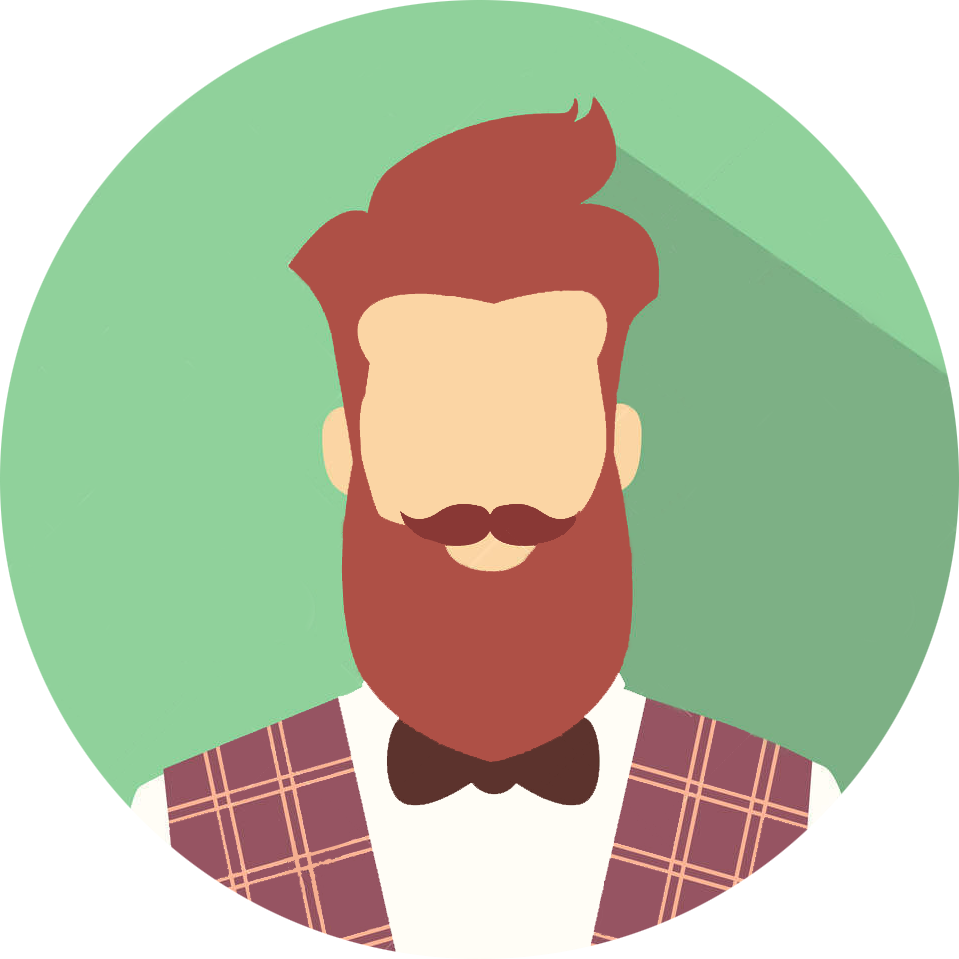
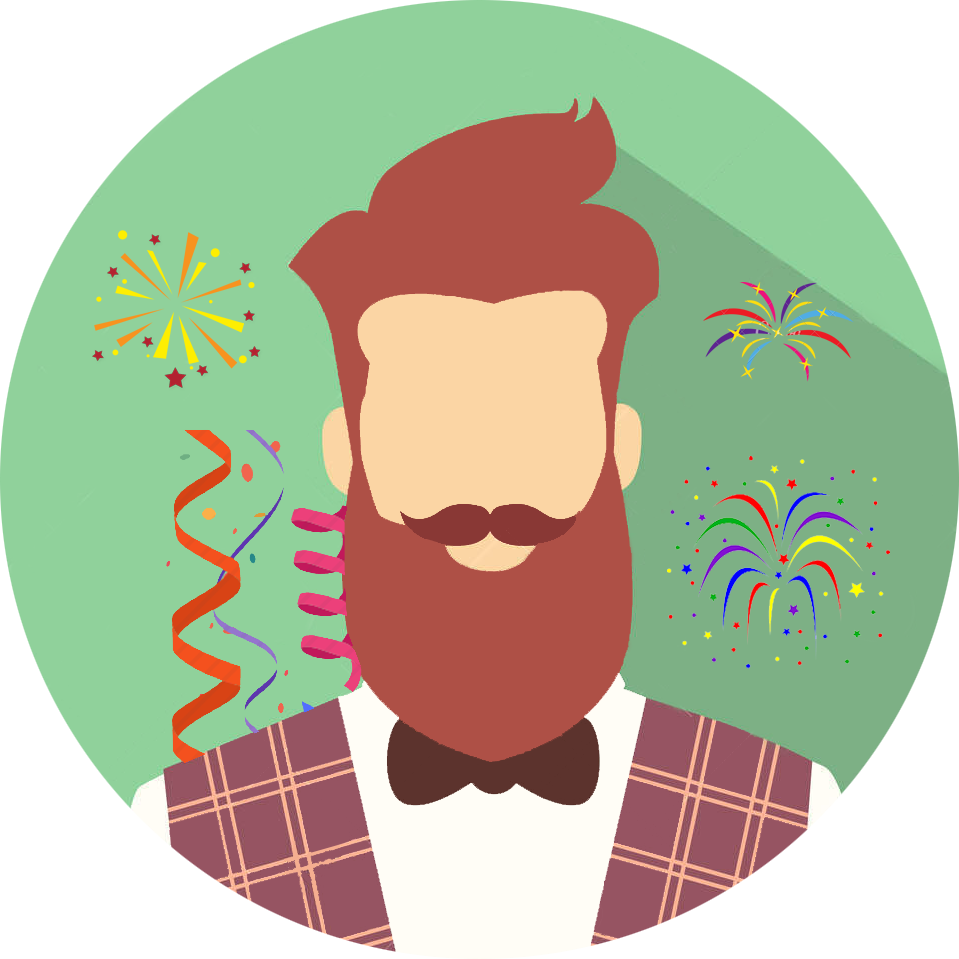
Government.php and app.php code refactoring + final version of Mass Media pattern layout

diff --git a/assets/js/data-modal.js b/assets/js/data-modal.js
@@ -63,28 +63,31 @@ function callGovernment(position){
 	var personalData = {};
 
 	switch(position){
-		case 'chiefDoctor':
+		case 'Minister Of Health':
 			personalData = {
-				'position' : 'Chief Doctor',
-				'firstName' : 'Gilbert',
+				'position' : 'Minister of Health',
+				'firstName': 'Gilbert',
 				'lastName' : 'Myers',
-				'hireDate' : '12.02.2003'
+				'hireDate' : '12.02.2003',
+				'image'    : 'ministerOfHealth.png'
 			};
 			break;
-		case 'cityJudge':
+		case 'Chairman Of The City Parliament':
 			personalData = {
-				'position' : 'City Judge',
-				'firstName' : 'Margaret',
+				'position' : 'Chairman of the City Parliament',
+				'firstName': 'Margaret',
 				'lastName' : 'Thompson',
-				'hireDate' : '01.07.2008'
+				'hireDate' : '01.07.2008',
+				'image'    : 'chairmanOfTheCityParliament.png'
 			};
 			break;
-		case 'policeCaptain':
+		case 'Minister Of Defense':
 			personalData = {
-				'position' : 'Police Captain',
-				'firstName' : 'Patrick',
+				'position' : 'Minister of Defense',
+				'firstName': 'Patrick',
 				'lastName' : 'Cooper',
-				'hireDate' : '03.10.2006'
+				'hireDate' : '03.10.2006',
+				'image'    : 'ministerOfDefense.png'
 			};
 			break;
 	}
@@ -205,6 +208,10 @@ function loadMassMediaHtml(sampleData){
 	var siteData = massMediaData.site;
 
 	$(".data-content").load('layouts/massMedia/massMedia.html', function(){
+		$(this).find("#date").text(massMediaData.date);
+		$(this).find("#party-name").text("#"+massMediaData.name);
+		$(this).find("#pc-24-time").text("Posted at " + tvData.time);
+		$(this).find("#pcb-time").text("Posted at "+siteData.time);
 		$(this).find("#pc-24-image").attr("src", "assets/img/massMedia/" + tvData.image);
 		$(this).find("#pc-24 span").text(tvData.text);
 		$(this).find("#pcb-image").attr("src", "assets/img/massMedia/" + siteData.image);

diff --git a/layouts/government/secretary.html b/layouts/government/secretary.html
@@ -2,13 +2,13 @@
  <section class = "single-block" id="government-meeting">
  	<img src="assets/img/government/secretary.png" alt="Secretry">
  	<article class = "double-conversation" id="conversation">
- 		<p><strong>Secretary:</strong> <span>The government is quite busy rigth now, but several ministers are ready to give you time. They are the chief doctor, the police captain and the city judge. Who would you like to meet with?</span></p>
+ 		<p><strong>Secretary:</strong> <span>The government is quite busy rigth now, but several ministers are ready to give you time. They are the minister of health, the minister of defense and the chairman of the city parliament. Who would you like to meet with?</span></p>
  		<p>
  			<strong>You: </strong> 
  			<span>
- 				<a href = "javascript:void(0);" onClick="callGovernment('chiefDoctor');" >1. I'd like to meet with Chief Doctor.</a><br/>
- 				<a href = "javascript:void(0);" onClick="callGovernment('policeCaptain');" >2. I'd like to meet with Police Captain.</a><br/>
- 				<a href = "javascript:void(0);" onClick="callGovernment('cityJudge');" >3. I'd like to meet with City Judge.</a><br/>
+ 				<a href = "javascript:void(0);" onClick="callGovernment('Minister Of Health');" >1. I'd like to meet with Minister of Health.</a><br/>
+ 				<a href = "javascript:void(0);" onClick="callGovernment('Minister Of Defense');" >2. I'd like to meet with Minister of Defense.</a><br/>
+ 				<a href = "javascript:void(0);" onClick="callGovernment('Chairman Of The City Parliament');" >3. I'd like to meet with Chairman of the city parliament.</a><br/>
  				<a href = "javascript:void(0);" data-remodal-action="cancel">4. Not now, thank you.</a>
  			</span>
  		</p>

diff --git a/layouts/massMedia/massMedia.html b/layouts/massMedia/massMedia.html
@@ -1,22 +1,26 @@
 <h1>Resent news of Pattern City</h1>
-<h1>Thursday, August, 24, 2017</h1>
+<h1 id = "date">Thursday, August, 24, 2017</h1>
 <section id="tags">
 	<span>Choosen tags:</span>
 	<span>#Celebration</span>
 	<span>#party</span>
 	<span>#ILOVEPARTIES</span>
 	<span>#good_time</span>
+	<span id="party-name"></span>
 	<span>#City</span>
 	<span>#Tod@y</span>
 </section>
 <section class = "single-block" id="mass-media">
-	<img id = "pc-24-image" src="" alt="Reporter">
-	<article class="list">
-		<p id = "pc-24"><strong>PC-24 reporter:</strong> <span style = "padding-top: 25px;">Hey, hello! It's good that you came. Look, it's been quiet lately. Let's arrange a party? Can you help me come up with a name of it? I will take care of myself about the rest!</span></p>
-	</article>
 	<img id = "pcb-image" src="" alt="Blog">
 	<article class="list">
-		<p id = "pcb"><strong>PCB blog:</strong> <span style = "padding-top: 25px;">Hey, hello! It's good that you came. Look, it's been quiet lately. Let's arrange a party? Can you help me come up with a name of it? I will take care of myself about the rest!</span></p>
+		<p id = "pcb"><strong>PCB blog:</strong> <span style = "padding-top: 25px;"></span><p class = "time" id="pcb-time"></p></p>
+	</article>
+	<img id = "pc-24-image" src="" alt="Reporter">
+	<article class="list">
+		<p id = "pc-24"><strong>PC-24 reporter:</strong> <span style = "padding-top: 25px;"></span><p class = "time" id = "pc-24-time">12:20</p></p>
 	</article>
 </section>
 <br>
+<section id="massMedia-actions">
+		<button data-remodal-action="cancel" class="remodal-cancel" style = "padding-left: 10px; padding-right: 10px;">Close the news</button>
+</section> 

diff --git a/assets/css/style.css b/assets/css/style.css
@@ -206,6 +206,10 @@ input{
  *--------------]
  */
 
+.single-block{
+    min-height: 218px;
+}
+
 .single-block #conversation, .single-block .list{
  	float: right;
     max-width: 424px;
@@ -516,6 +520,15 @@ input{
 
 #mass-media .list p{
     padding-left: 20px;
+}
+
+#massMedia-actions{
+    margin-top: 40%;
+}
+
+.time{
+    font-size: 12px;
+    color: #bbb;
 }
 
 

diff --git a/layouts/government/government.html b/layouts/government/government.html
@@ -6,6 +6,6 @@
  	</article>
  </section>
 <br>
-<section id="mayor-meeting-actions">
+<section id="government-meeting-actions">
 		<button data-remodal-action="cancel" class="remodal-cancel" style = "padding-left: 10px; padding-right: 10px;">Nice to meet you!</button>
 </section> 

diff --git a/class/government.php b/class/government.php
@@ -27,20 +27,8 @@ class Government
 		self::setFirstName($sampleData['position'], $sampleData['firstName']);
 		self::setLastName($sampleData['position'], $sampleData['lastName']);
 		self::setHireDate($sampleData['position'], $sampleData['hireDate']);
+		self::setImage($sampleData['position'], $sampleData['image']);
 
-		switch ($sampleData['position']) {
-			case 'Chief Doctor':
-				self::setImage($sampleData['position'],"chiefDoctor.png");
-				break;
-
-			case 'Police Captain':
-				self::setImage($sampleData['position'],"policeCaptain.png");
-				break;
-
-			case 'City Judge':
-				self::setImage($sampleData['position'],"judge.png");
-				break;
-		}
 	}
 
 	public static function setFirstName($position, $newFirstName){

diff --git a/functions/app.php b/functions/app.php
@@ -107,12 +107,16 @@ if($_POST['action'] == 'massMedia'){
 	$data = [
 		'tv' => [
 			'text' 	=> $pc24->getNotifyText(),
-			'image' => $pc24->getImage()
+			'image' => $pc24->getImage(),
+			'time' => date("g:i a", time()-3*60)
 		],
 		'site' => [
 			'text' 	=> $pcb->getNotifyText(),
-			'image' => $pcb->getImage()
-		]
+			'image' => $pcb->getImage(),
+			'time' =>  date("g:i a")
+		],
+		'date' => date("l, F, j, Y"),
+		'name' => $_POST['partyName']
 	];
 
 	echo json_encode($data);
